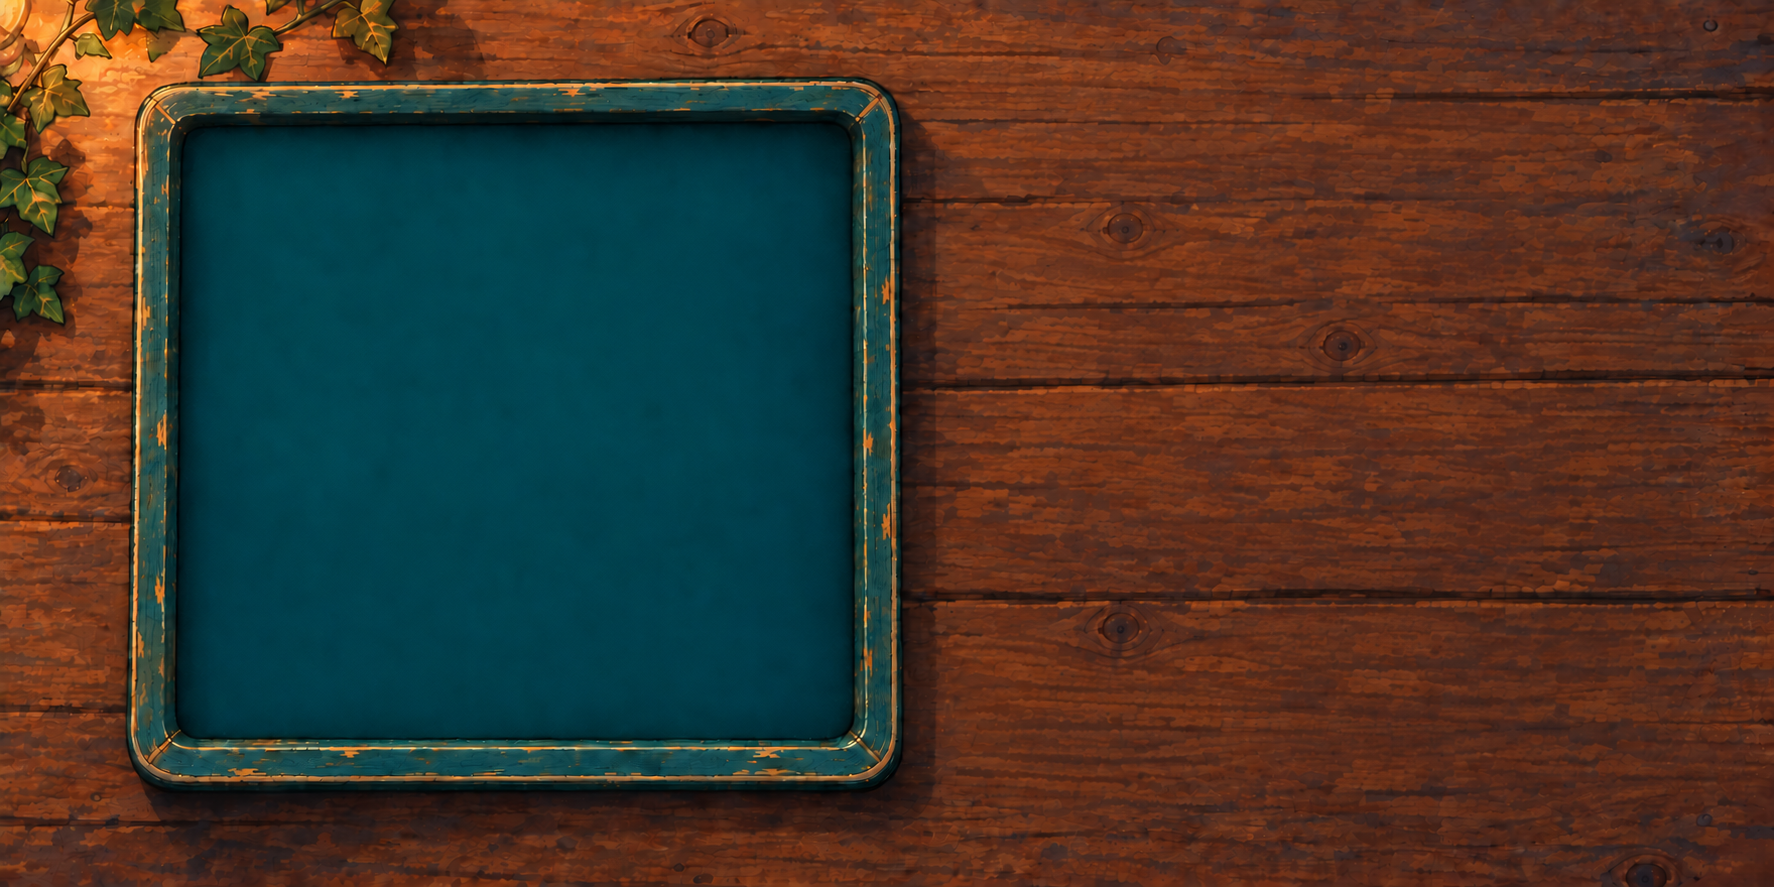
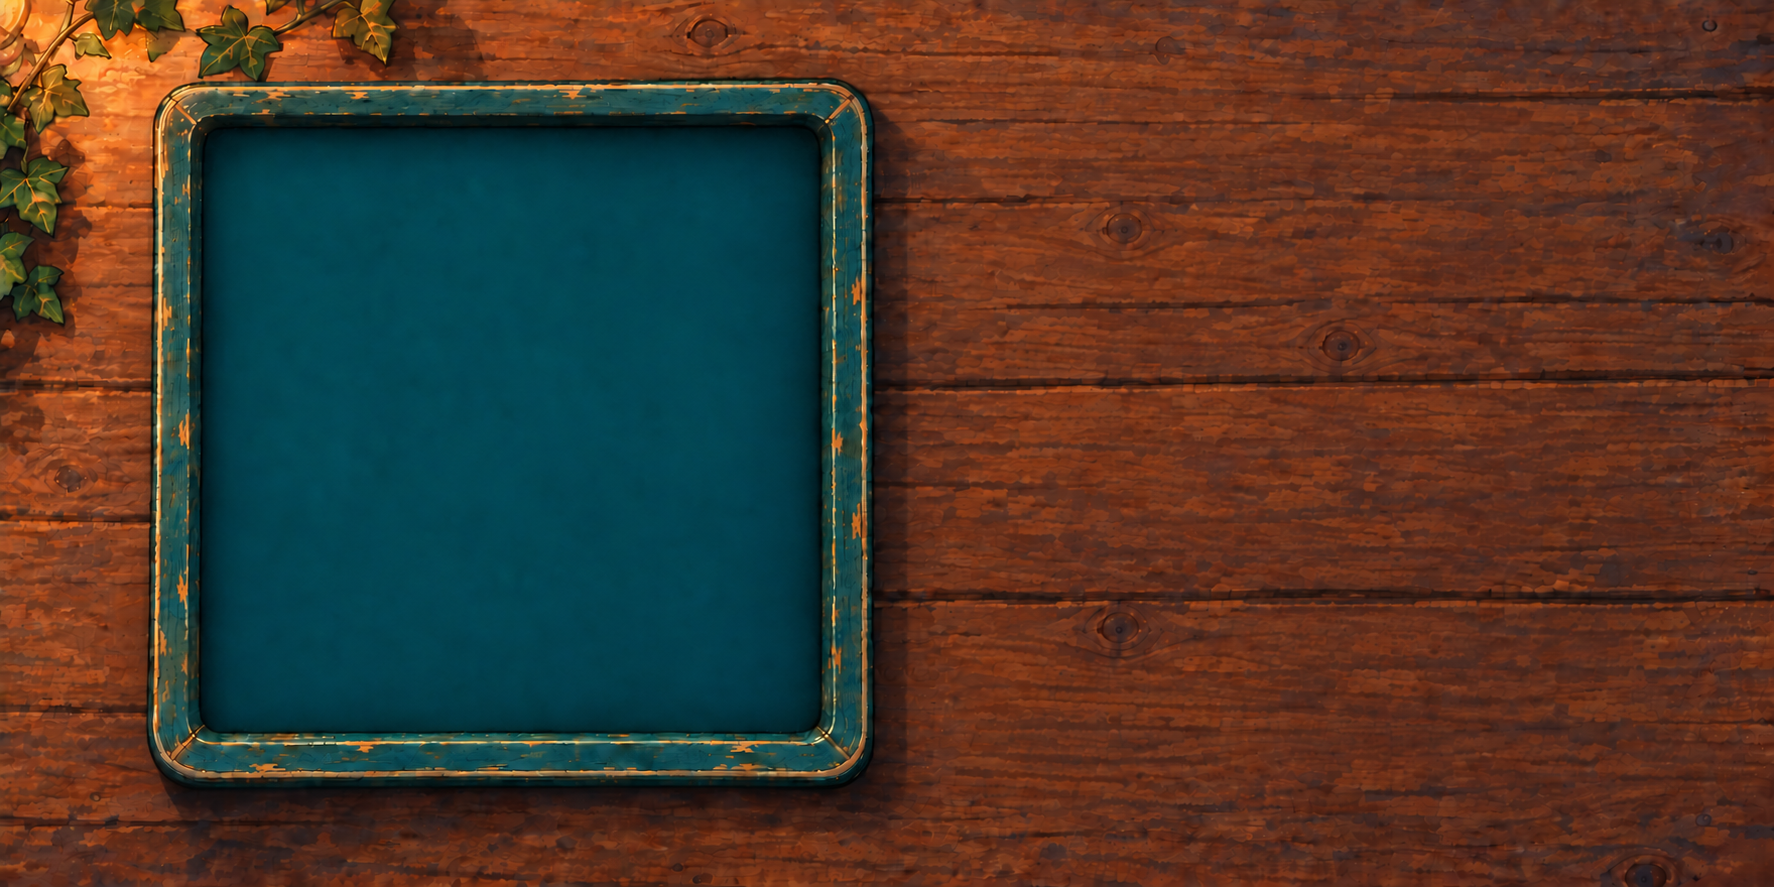
Balance city puzzle tray padding and square the recess

Changed region(s): [[0.062, 0.0609, 0.5271, 0.9741], [0.031, 0.0, 0.062, 0.0609], [0.0, 0.0913, 0.031, 0.1218]]

diff --git a/ios/Ivy/Game/CityJigsaw.swift b/ios/Ivy/Game/CityJigsaw.swift
@@ -114,11 +114,13 @@ struct CityJigsawView: View {
 private struct CityGridLayout {
     let size: CGSize
     // Approved overhead canvas: 1774×887. Table supports every rotated tile.
-    // Square assembly sits inside the painted recess (178...850, 125...740),
-    // leaving side clearance; drawing, hit targets and drops share this transform.
+    // Revised painted recess is approximately (202, 126), 618×608.
+    // Center a square working area with an 18-unit inset; the hand-painted
+    // side edges add only ~5 units. Drawing and drops share this transform.
     private var scale: CGFloat { size.width / 1774 }
     var board: CGRect {
-        CGRect(x: 208 * scale, y: 128 * scale, width: 612 * scale, height: 612 * scale)
+        CGRect(x: 207 * scale, y: 126 * scale, width: 608 * scale, height: 608 * scale)
+            .insetBy(dx: 18 * scale, dy: 18 * scale)
     }
     var cell: CGFloat { board.width / 3 }
     var trayEdge: CGFloat { cell }

diff --git a/art/city/README.md b/art/city/README.md
@@ -6,10 +6,10 @@ The user approved `approved-overhead.png` and requested implementation using it.
 ## Asset and placement contract
 
 - Background: `overhead-empty.png` → `city-puzzle-overhead`, exported directly at every scale by `swift scripts/export_city.swift`.
-- Approved reference: original generated `exec-cc9d2636-137d-4c1e-a4f7-efa3fe286939.png`; production edit: `exec-e730609a-18b9-4993-a113-10245fe1a5e1.png`.
+- Approved reference: original generated `exec-cc9d2636-137d-4c1e-a4f7-efa3fe286939.png`; production geometry revision: `exec-56196461-c005-4b26-871a-ba6455b09231.png`.
 - Reference canvas: 1774 × 887, strict overhead tabletop. Runtime artwork and interactions share the same 2:1 fitted stage.
-- Owning surface: wood tabletop for loose tiles; teal recessed tray for assembled tiles. Recess approximately x=178...850, y=125...740. Square board x=208, y=128, width=height=612, with side clearance to avoid stretching the square Hong Kong image into the slightly wider painted recess.
-- Nine square tiles use the existing `city-jigsaw-master` in nine exact crops, preserving the finished collectible. They have 204-unit edges and no alpha padding. Each loose position and angle is defined in `CityGridLayout`; index order is back-to-front, selected tile rises above the pile, dragged tile above all others.
+- Owning surface: wood tabletop for loose tiles; teal recessed tray for assembled tiles. Revised recess approximately x=202...820, y=126...734. A centered 608-unit square working area has an 18-unit inset: board x=225, y=144, width=height=572. The painted side edges leave about 23 units versus 18 above/below, replacing the previous 30-unit side margins and nearly zero vertical margins without stretching the square image.
+- Nine square tiles use the existing `city-jigsaw-master` in nine exact crops, preserving the finished collectible. They have 572/3-unit edges and no alpha padding. Each loose position and angle is defined in `CityGridLayout`; index order is back-to-front, selected tile rises above the pile, dragged tile above all others.
 - The existing saved `cityLooseOrder` maps pieces to those stable positions. Removing a piece leaves its position empty. Existing board occupancy, swaps, returns, completed saves and reward logic remain unchanged.
 - Board pieces are upright; loose pieces rotate as complete visual/hit-target assemblies. Dragging uses the same named coordinate space and retains the original center offset, straightening the lifted tile for placement. Invalid drops return to the source.
 - Back and footer remain root-owned. No controls or removable pieces are baked into the backdrop.
@@ -20,3 +20,5 @@ The user approved `approved-overhead.png` and requested implementation using it.
 2. Remove only the four thin internal grid lines, seamlessly filling with matching matte teal material. Keep tray rim, location, scale, canvas, tabletop, ivy, lighting, shadow and overhead camera unchanged. Empty right tabletop; no new objects or text.
 
 Generated artwork was inspected directly. No game build, device launch, screenshot or gesture test was run; runtime acceptance remains user-owned.
+
+3. Padding revision: correct only the tray toward a square inner opening, preserving the tabletop, ivy, overhead camera and style. Requested equal clearance around a square puzzle; actual painted bounds were inspected and runtime placement adapted to the resulting artwork, rather than assuming generated coordinates matched the prompt.
